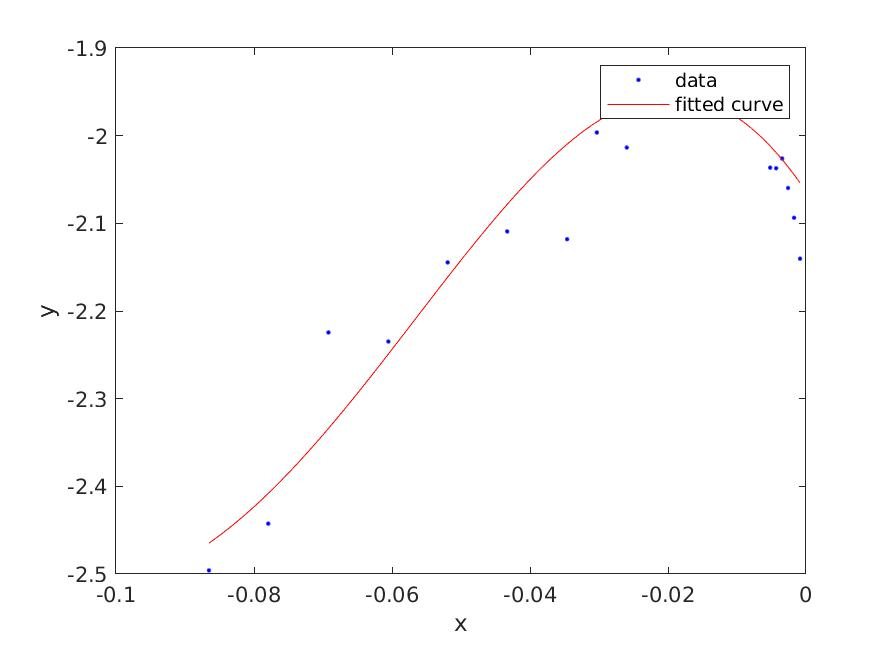
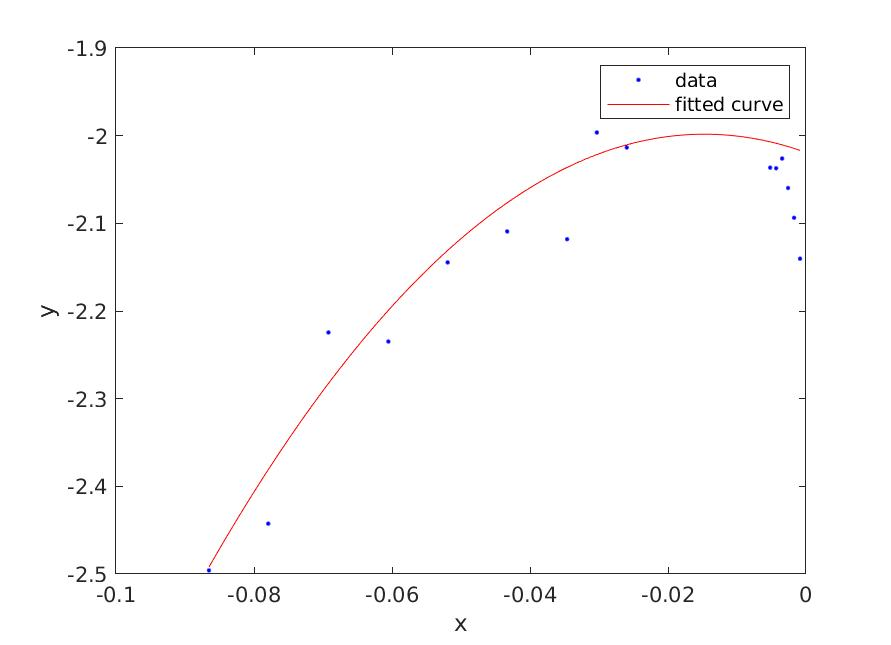
refactor code

diff --git a/sequence_split.m b/sequence_split.m
@@ -1,0 +1,60 @@
+% 加载文件，分割点位并返回
+function [split_flag, split_idx_list] = sequence_split(current_file, joint_idx, real_speed_num)
+    %% 文件内容为：时间+关节力矩+关节速度+关节位置
+    time_stamp = current_file(:, 1);
+    data_length = length(time_stamp);
+    % 实际运动的关节
+    joint_torque = current_file(:, joint_idx + 1);
+    joint_vel = current_file(:, joint_idx + 7);
+    joint_pos = current_file(:, joint_idx + 13);
+
+    %% 对不同速度段运动进行分割（利用关节速度）
+    %%% 首先滤波去除曲线平滑，并利用符号函数求出所有跳变点，包括返回原值与跳变为相反值
+    direction_sign = sign(medfilt2(joint_vel, [500, 1]));
+    %%% 对于每一组速度进行切换，应当为从-1（再至0）最后至1
+    split_idx_list = [];
+    split_idx_list(1) = 0; % 起点
+    j = 2;
+    left_idx = [];
+    for i = 2 : data_length
+        if direction_sign(i) == 1
+            left_idx = i;
+        end
+        if (direction_sign(i) == -1) && (~isempty(left_idx))
+            right_idx = i;
+            split_idx_list(j) = floor((left_idx + right_idx) / 2);
+            j = j + 1;
+            left_idx = [];
+        end
+    end
+    if split_idx_list(end) < data_length - 500 % 终点
+        split_idx_list(end + 1) = data_length;
+    end
+    %%% 统计一共有多少种速度
+    pred_speed_num = length(split_idx_list) - 1;
+    if pred_speed_num == real_speed_num
+        split_flag = 0;
+    else
+        split_flag = 1;
+    end
+    %% 画出信号与分隔
+    plot_fig = 1;
+    if plot_fig
+        fig_dir = './figs/';
+        fig = figure(1);
+        hold on
+        plot(joint_torque)
+        plot(direction_sign)
+        scatter(split_idx_list, zeros(size(split_idx_list)),'MarkerFaceColor',[1 1 1])
+        saveas(gcf,[fig_dir, 'joint ', num2str(joint_idx), ' torque.jpg']);
+        close(fig);
+
+        fig = figure(2);
+        plot(joint_vel)
+        hold on
+        plot(150 .* direction_sign)
+        scatter(split_idx_list, zeros(size(split_idx_list)),'MarkerFaceColor',[1 1 1])
+        saveas(gcf,[fig_dir, 'joint ', num2str(joint_idx), ' vel.jpg']);
+        close(fig);
+    end
+end

diff --git a/tor_vel_mean_cal.m b/tor_vel_mean_cal.m
@@ -1,0 +1,34 @@
+% 利用分割点计算每段力矩、速度的均值
+function joint_t_v_mean = tor_vel_mean_cal(current_file, split_idx_list, joint_idx, speed_num)
+    %% 文件内容为：时间+关节力矩+关节速度+关节位置
+    time_stamp = current_file(:, 1);
+    data_length = length(time_stamp);
+    % 实际运动的关节
+    joint_torque = current_file(:, joint_idx + 1);
+    joint_vel = current_file(:, joint_idx + 7);
+    joint_pos = current_file(:, joint_idx + 13);
+    %% 计算均值
+    joint_t_v_mean = zeros(2*speed_num,2); % 存储力矩速度对
+    for speed_idx = 1 : speed_num
+        % 前三个关节的传动比为101,后3个为121
+        if joint_idx < 4
+            Ng = 101;
+        else
+            Ng = 121;
+        end
+        start_i = split_idx_list(speed_idx);
+        end_i = split_idx_list(speed_idx + 1);
+        speed_length = end_i - start_i; %该速度下点的个数
+        mid_i = floor((start_i + end_i) / 2);
+        tolerance = floor(0.05 *  speed_length);
+        p1 = start_i + tolerance;
+        p2 = mid_i - tolerance;
+        p3 = mid_i + tolerance;
+        p4 = end_i - tolerance;
+        % 求均值并从驱动器端转换到关节端
+        joint_t_v_mean(2 * speed_idx - 1, 1) = mean(joint_torque(p1:p2)) * Ng;
+        joint_t_v_mean(2 * speed_idx - 1, 2) = mean(joint_vel(p1:p2)) * 2 * pi / 60 / Ng;
+        joint_t_v_mean(2 * speed_idx, 1) = mean(joint_torque(p3:p4)) * Ng;
+        joint_t_v_mean(2 * speed_idx, 2) = mean(joint_vel(p3:p4)) * 2 * pi / 60 / Ng;
+    end
+end

diff --git a/fric_curve_fitting.m b/fric_curve_fitting.m
@@ -1,0 +1,35 @@
+% 摩擦曲线拟合
+function para_and_func = fric_curve_fitting(joint_t_v_mean, joint_idx)
+    %% 指明自变量以及待解参数
+    syms x;
+    f = fittype('(a + (b - a) .* exp(-(x./c) .* (x./c))) .* sign(x) + d .* x','independent','x','coefficients',{'a','b','c','d'});
+    % 指明拟合参数，不同参数可能导致不同拟合效果
+    options = fitoptions(f);
+    options.DiffMaxChange = 1.0e-8;
+    options.DiffMinChange = 1.0e-8;
+    options.MaxFunEvals = 20000;
+    options.MaxIter = 20000;
+    options.TolFun = 1.0e-6;
+    options.TolX = 1.0e-6;
+    %% 对正转与反转进行拟合得到两组各4个参数
+    torque = joint_t_v_mean(:,1);
+    vel = joint_t_v_mean(:,2);
+    % 返回函数以及函数输出设置，函数可用来做图cfun(x)，函数输出设置可选rsquare等
+    [cfun_p,rsquare_p]=fit(vel(vel>0), torque(torque>0), f);
+    [cfun_n,rsquare_n]=fit(vel(vel<0), torque(torque<0), f);
+    para_and_func = {{cfun_p,rsquare_p},{cfun_n,rsquare_n}};
+    %% 保存图片
+    plot_fig = 1;
+    if plot_fig
+        fig_dir = './figs/';
+        fig = figure(1);
+        plot(cfun_p, vel(vel>0), torque(torque>0));
+        saveas(gcf,[fig_dir, 'joint ', num2str(joint_idx), ' positive.jpg']);
+        close(fig);
+        fig = figure(2);
+        plot(cfun_n, vel(vel<0), torque(torque<0));
+        saveas(gcf,[fig_dir, 'joint ', num2str(joint_idx), ' negative.jpg']);
+        close(fig);
+    end
+end
+

diff --git a/friction_para_identification_dir.m b/friction_para_identification_dir.m
@@ -1,0 +1,31 @@
+% 使用如下
+% data_dir = './data/';
+% joint_idx_list = [6, 5, 4, 3, 2, 1];
+% speed_num_list = [22, 21, 18, 21, 14, 20];
+% [result, point_set] = friction_para_identification_dir(data_dir, joint_idx_list, speed_num_list);
+
+function [para_and_func, joint_t_v_mean] = friction_para_identification_dir(data_dir, joint_idx_list, speed_num_list)
+    % 读取文件，文件为驱动器端速度和力矩的原始数据等
+    % 对不同速度分割
+    % 滤波
+    % 得到该速度下摩擦力与速度
+    % 得到摩擦力与速度曲线并拟合得到参数
+    % 返回值为元组，元组每个元素也为元组，与文件一一对应
+    % 每个文件元组元素包含两个元组，对应正转与反转
+    % 每个正转与反转元组中包含一个cfit与一个struct，分别为拟合的模型、参数与相关指标
+    file_table = dir([data_dir '*.txt']);
+    file_num = length(file_table); %一共的文件数
+    for file_idx = 1 : file_num
+        % 加载文件、分割、返回分割点
+        file_name = [data_dir file_table(file_idx).name];
+        joint_idx = joint_idx_list(file_idx); % 时间越往后，关节越往前
+        real_speed_num = speed_num_list(file_idx); %每个关节运行的速度数（只考虑大小未考虑方向）
+        [para_and_func{file_idx}, joint_t_v_mean{file_idx}] = friction_para_identification_file(file_name, joint_idx, real_speed_num); 
+    end
+end
+
+
+
+
+
+

diff --git a/friction_para_identification_file.m b/friction_para_identification_file.m
@@ -1,0 +1,31 @@
+% 使用如下
+% file_name = './data/data-2022-10-08-14_35_38.txt';
+% joint_idx = 6;
+% real_speed_num = 22;
+% [result, point_set] = friction_para_identification_file(file_name, joint_idx, real_speed_num)
+
+function [para_and_func, joint_t_v_mean] = friction_para_identification_file(file_name, joint_idx, real_speed_num)
+    % 读取文件，文件为驱动器端速度和力矩的原始数据等
+    % 对不同速度分割
+    % 滤波
+    % 得到该速度下摩擦力与速度
+    % 得到摩擦力与速度曲线并拟合得到参数
+    % 返回值为元组，元组每个元素也为元组，与文件一一对应
+    % 每个文件元组元素包含两个元组，对应正转与反转
+    % 每个正转与反转元组中包含一个cfit与一个struct，分别为拟合的模型、参数与相关指标
+    current_file = load(file_name);
+    [split_flag, split_idx_list] = sequence_split(current_file, joint_idx, real_speed_num);
+    % 分割无误则计算速度与力矩均值
+    if split_flag
+        error('分割出错');
+    end
+    joint_t_v_mean = tor_vel_mean_cal(current_file, split_idx_list, joint_idx, real_speed_num);
+    % 拟合
+    para_and_func = fric_curve_fitting(joint_t_v_mean, joint_idx);
+end
+
+
+
+
+
+

diff --git a/test.m b/test.m
@@ -1,13 +1,11 @@
 data_dir = './data/';
-speed_num_list = [22,21,18,21,14,20];
-[result, point_set, para_set] = friction_para_identification(data_dir,speed_num_list);
-% 愚蠢的toolbox只能识别一维数组
-% joint_idx = 6;
-% Y_data_t = point_set{joint_idx}(:,1);
-% X_data_v = point_set{joint_idx}(:,2);
-% Y_data_t_p = Y_data_t(Y_data_t>0);
-% X_data_v_p = X_data_v(X_data_v>0);
-% scatter(Y_data_t_p,X_data_v_p)
+joint_idx_list = [6, 5, 4, 3, 2, 1];
+speed_num_list = [22, 21, 18, 21, 14, 20];
+[result, point_set] = friction_para_identification_dir(data_dir, joint_idx_list, speed_num_list);
 
-% (a + (b - a) .* exp(-(x./d) .* (x./d))) .* sign(x) + e .* x
-% 
+
+% file_name = './data/data-2022-10-08-14_35_38.txt';
+% joint_idx = 6;
+% real_speed_num = 22;
+% [result, point_set] = friction_para_identification_file(file_name, joint_idx, real_speed_num);
+

diff --git a/readme.md b/readme.md
@@ -9,6 +9,14 @@
 - 求均值：取每一个正/逆方向上中间90%的数据，消除两端的上升下降
 - 对每个关节同方向上速度进行拟合，得到函数与参数
 
-# 说明
+# 文件
+- friction_para_identification
+未封装的代码
+- friction_para_identification_dir
+路径下所有文件进行处理
+- friction_para_identification_file
+单个文件进行处理
+
+# 其他
 - 同关节正逆转差距挺大
 - 拟合的参数选择将影响参数结果
